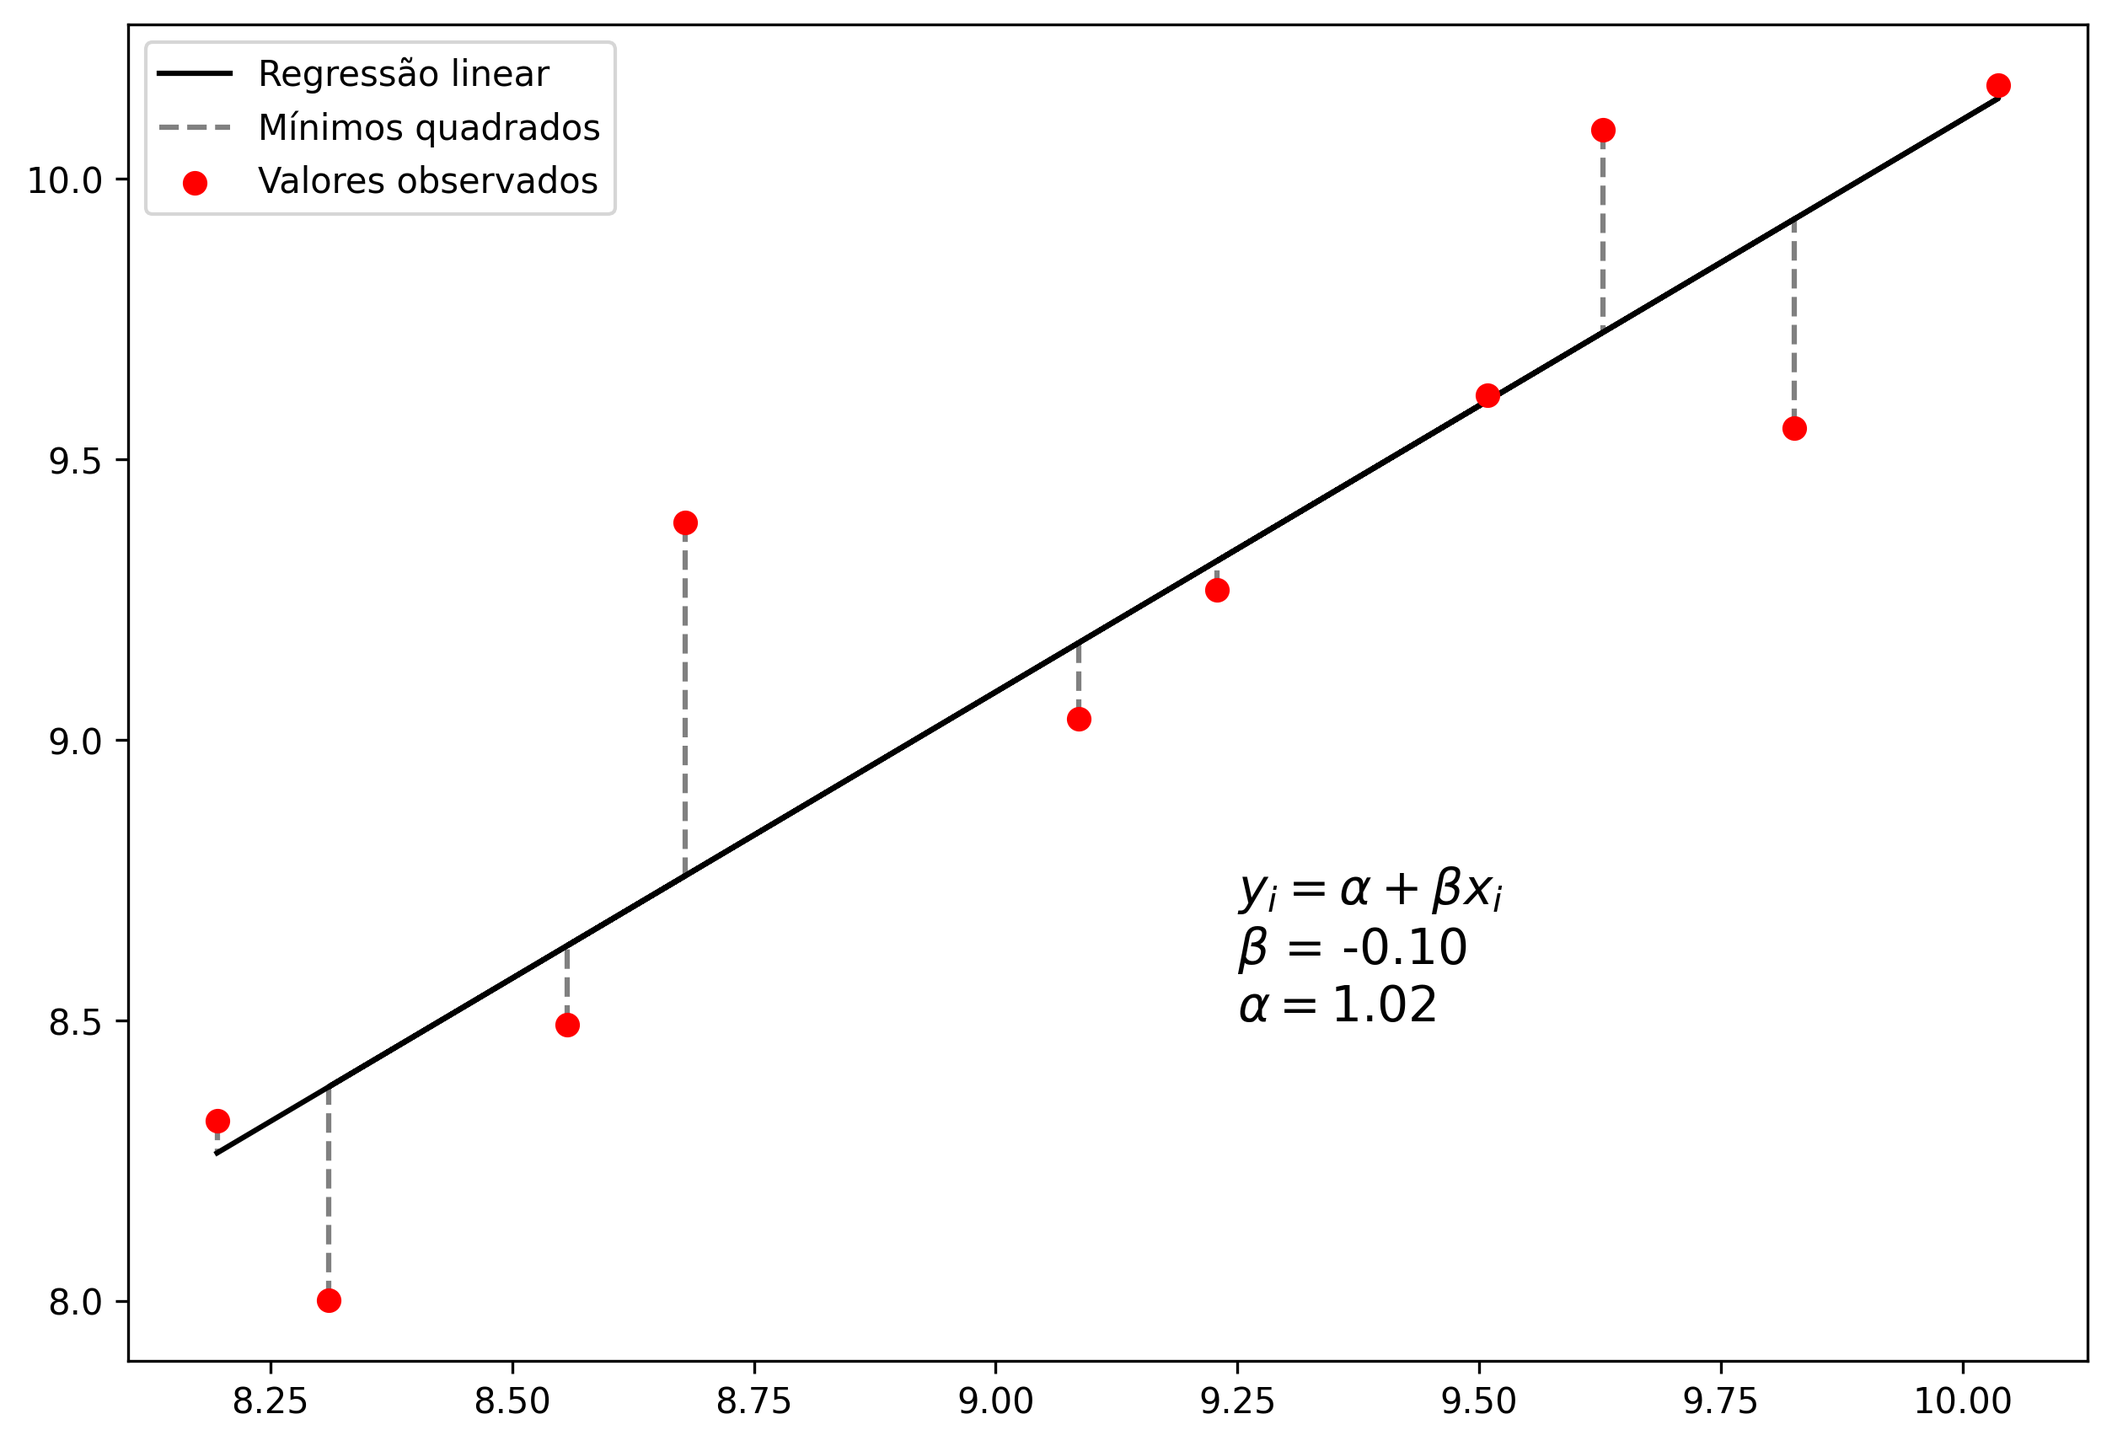
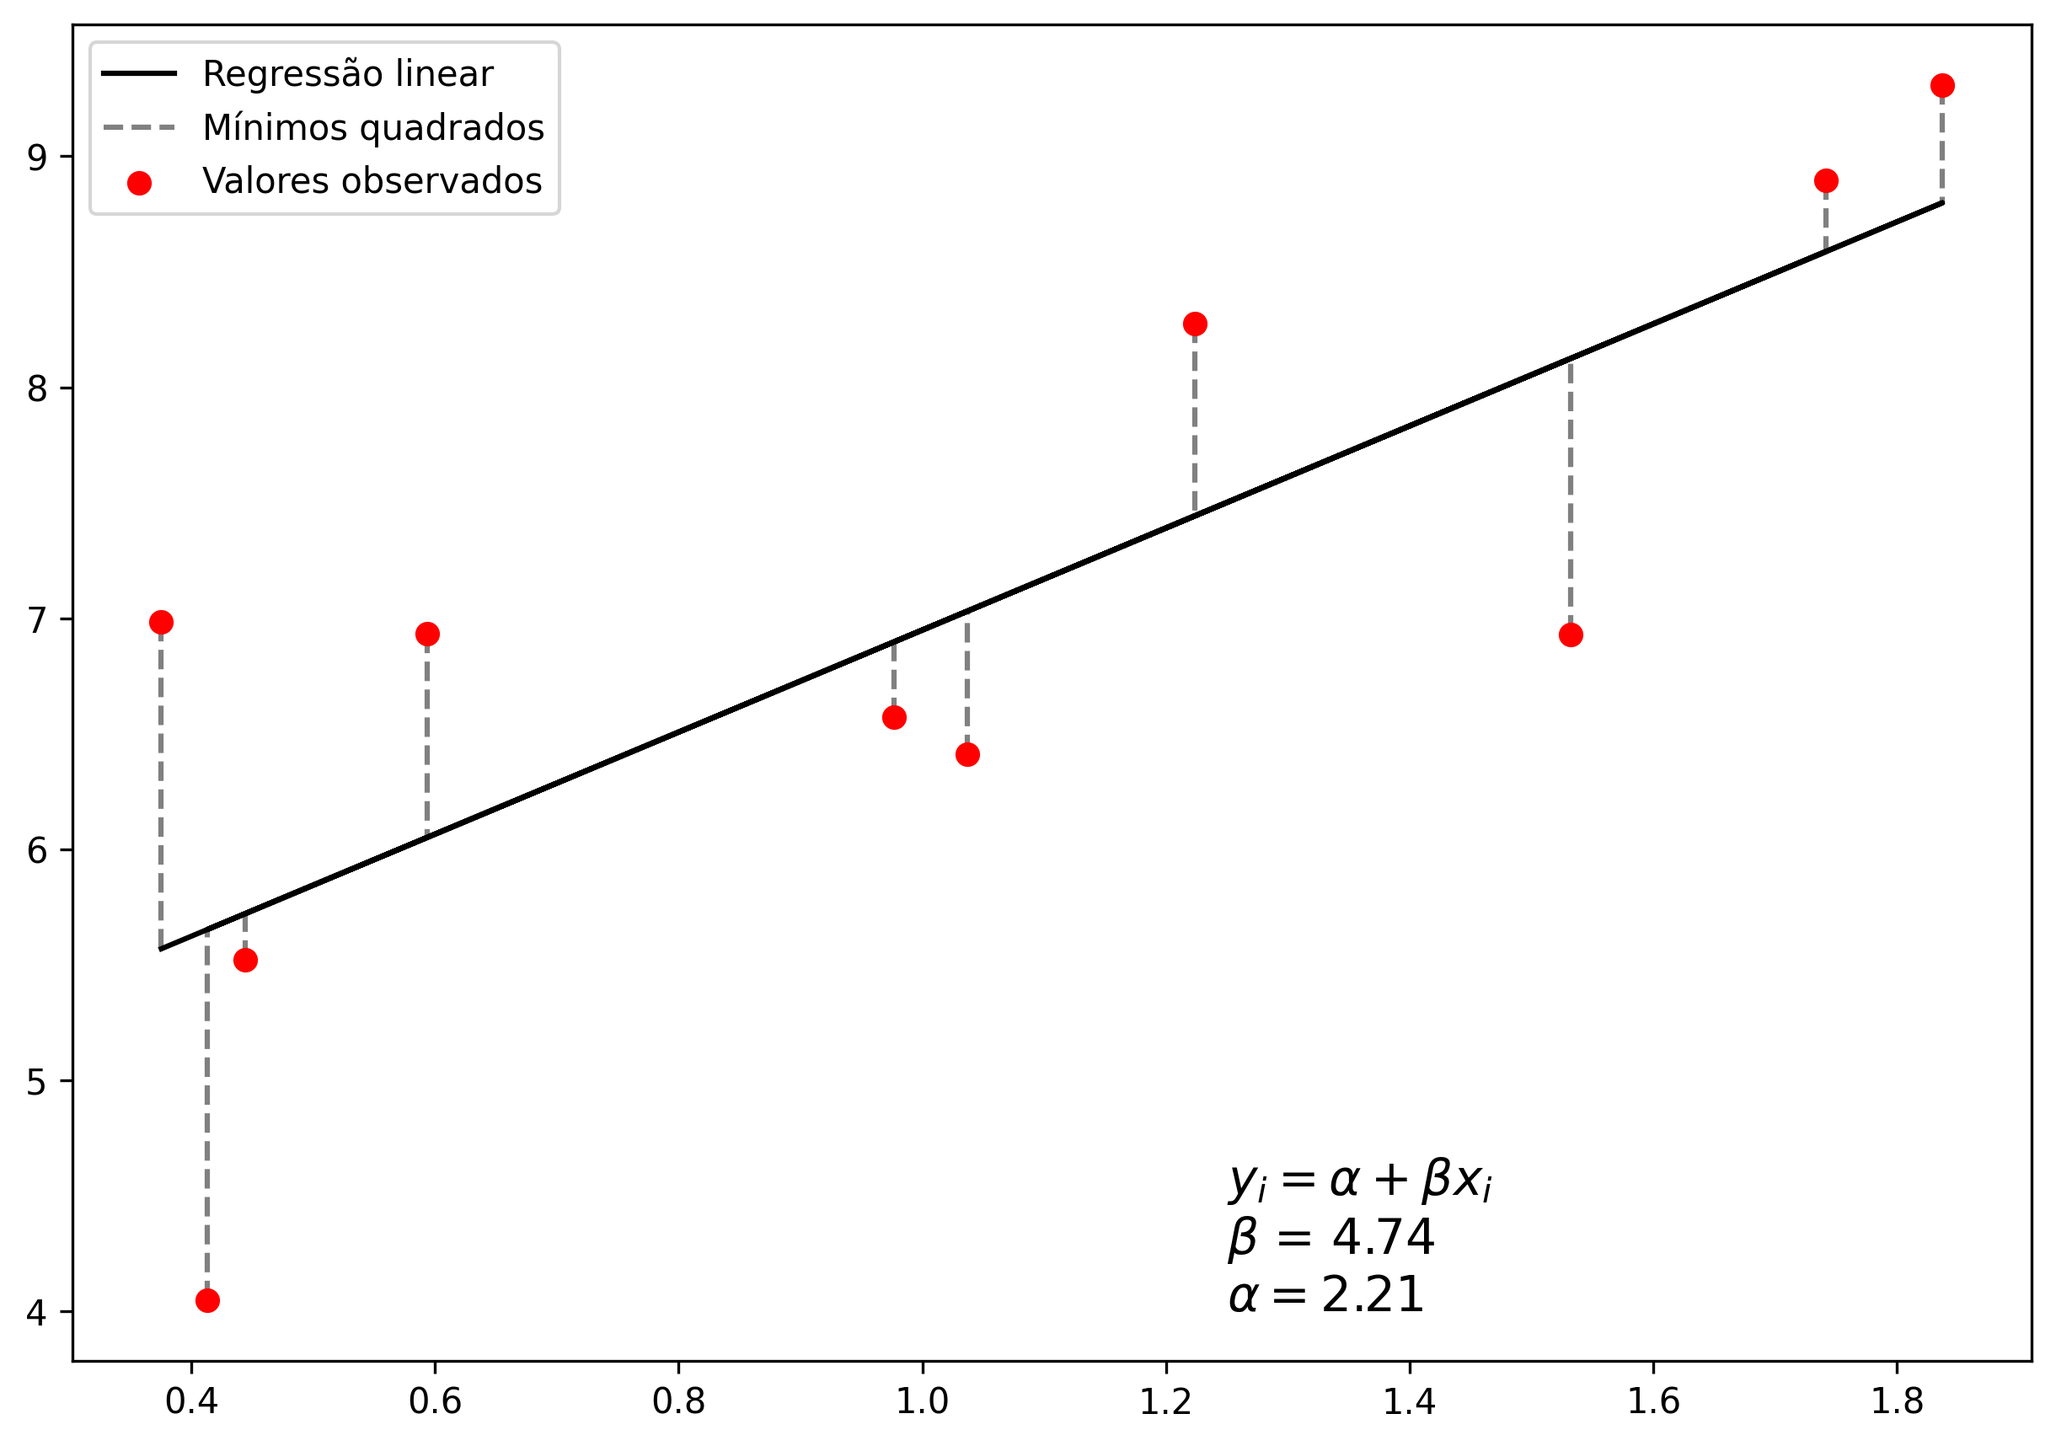
Finish OLS and create GD

diff --git a/docs/regressão.html b/docs/regressão.html
@@ -74,7 +74,7 @@
 <ul>
 <li class="chapter" data-level="3.1" data-path="regressão.html"><a href="regressão.html#regressão-linear"><i class="fa fa-check"></i><b>3.1</b> Regressão Linear</a>
 <ul>
-<li class="chapter" data-level="3.1.1" data-path="regressão.html"><a href="regressão.html#cálculo-dos-coeficientes"><i class="fa fa-check"></i><b>3.1.1</b> Cálculo dos coeficientes</a></li>
+<li class="chapter" data-level="3.1.1" data-path="regressão.html"><a href="regressão.html#coeficientes-da-regressão-linear"><i class="fa fa-check"></i><b>3.1.1</b> Coeficientes da regressão linear</a></li>
 </ul></li>
 </ul></li>
 <li class="chapter" data-level="4" data-path="agrupamento.html"><a href="agrupamento.html"><i class="fa fa-check"></i><b>4</b> Agrupamento</a></li>
@@ -157,92 +157,124 @@ relação entre duas variáveis através de uma função, que pode ser definida 
     y_{i} = \alpha+\beta x_{i}
 \tag{3.1}
 \end{equation}\]</span></p>
-<p>Onde <span class="math inline">\(y_{i}\)</span> é a variável dependente, também denominada de variável alvo,
-<span class="math inline">\(\alpha\)</span> e <span class="math inline">\(beta x_{i}\)</span> são coeficientes calculados pela regressão, que
-representam o intercepto no eixo <span class="math inline">\(y\)</span> e inclinação da reta, respectivamente.</p>
+<p>Onde <span class="math inline">\(y_{i}\)</span> é a variável alvo, <span class="math inline">\(\alpha\)</span> e <span class="math inline">\(beta x_{i}\)</span> são coeficientes
+calculados pela regressão, que representam o intercepto no eixo <span class="math inline">\(y\)</span> e inclinação
+da reta, respectivamente.</p>
 <p>A RLM é semelhante semelhante à RLS, porém possui multiplas variáveis
 preditoras, e pode ser definida por:</p>
 <p><span class="math display" id="eq:rlm-function">\[\begin{equation} 
     y_{i} = \alpha+\beta x_{i1}+\beta x_{i2}+...+\beta x_{in}
 \tag{3.2}
 \end{equation}\]</span></p>
-<p>Onde <span class="math inline">\(y_{i}\)</span> é a variável dependente, <span class="math inline">\(\alpha\)</span> continua sendo o coeficiente de
+<p>Onde <span class="math inline">\(y_{i}\)</span> é a variável alvo, <span class="math inline">\(\alpha\)</span> continua sendo o coeficiente de
 intercepto e <span class="math inline">\(\beta x_{ip}\)</span> o é coeficiente angular da <span class="math inline">\(p\)</span>-ésima variável. Ambos
 os métodos podem ainda serem somados a um termo <span class="math inline">\(\epsilon\)</span> de erro.</p>
-<div id="cálculo-dos-coeficientes" class="section level3" number="3.1.1">
-<h3><span class="header-section-number">3.1.1</span> Cálculo dos coeficientes</h3>
-<p>Existem diversas abordagens para se calcular os coeficientes de intercepto de
-inclinação da reta, as técnicas baseadas em mínimos quadrados oridinários e
-gradiente descendente são as mais comuns.</p>
+<div id="coeficientes-da-regressão-linear" class="section level3" number="3.1.1">
+<h3><span class="header-section-number">3.1.1</span> Coeficientes da regressão linear</h3>
+<p>Existem diversas abordagens para se calcular os coeficientes <span class="math inline">\(\alpha\)</span> e <span class="math inline">\(\beta\)</span>
+da equação da regressão linear, as técnicas baseadas em mínimos quadrados
+oridinários e gradiente descendente são as mais comuns. A seguir serão
+apresentados os funcionamentos dessas abordagens.</p>
 <div id="métodos-dos-quadrados-ordinários" class="section level4" number="3.1.1.1">
 <h4><span class="header-section-number">3.1.1.1</span> Métodos dos quadrados ordinários</h4>
 <p>O Método dos quadrados ordinários (MQO) ou método dos mínimos quadrados (MMQ),
 busca encontrar o melhor valor para os coeficientes citados anteriormente, de
 tal forma que a diferença absoluta entre o valor real e o predito pela função
 seja a menor possível entre todos os pontos. A Figura <a href="regressão.html#fig:ols">3.3</a> mostra um
-exmplo de regressão linar utilizando o MQO para um conjunto de pontos com força
-de correlação de 0,9.</p>
+exmplo de regressão linar utilizando o MQO para o conjunto pontos descritos na
+tabela a seguir:</p>
+<table>
+<thead>
+<tr class="header">
+<th>Variável independente</th>
+<th>Variável dependente</th>
+</tr>
+</thead>
+<tbody>
+<tr class="odd">
+<td>0.75</td>
+<td>5.78</td>
+</tr>
+<tr class="even">
+<td>1.90</td>
+<td>10.25</td>
+</tr>
+<tr class="odd">
+<td>1.46</td>
+<td>7.93</td>
+</tr>
+<tr class="even">
+<td>1.20</td>
+<td>7.13</td>
+</tr>
+<tr class="odd">
+<td>0.31</td>
+<td>5.18</td>
+</tr>
+<tr class="even">
+<td>0.31</td>
+<td>3.02</td>
+</tr>
+<tr class="odd">
+<td>0.12</td>
+<td>2.62</td>
+</tr>
+<tr class="even">
+<td>1.73</td>
+<td>8.63</td>
+</tr>
+<tr class="odd">
+<td>1.20</td>
+<td>6.59</td>
+</tr>
+<tr class="even">
+<td>1.42</td>
+<td>8.56</td>
+</tr>
+</tbody>
+</table>
 <div class="figure" style="text-align: center"><span id="fig:ols"></span>
 <img src="assets/ols.png" alt="Exemplo do método dos quadrados ordinários."  />
 <p class="caption">
 Figure 3.3: Exemplo do método dos quadrados ordinários.
 </p>
 </div>
-<p>Considerando a Imagem <a href="regressão.html#fig:ols">3.3</a>, uma amostra de 10 pontos como exemplo, que
-será chamada de <span class="math inline">\(A\)</span>, ou seja, <span class="math inline">\(A = \{(x_{i}, y_{i}):i=1, ..., 10\}\)</span>. O MQO tem
-como objetivo estibular os coeficientes da função, de tal forma que a soma
-quadrática dos erros absolutos <span class="math inline">\(E^{2}\)</span> seja a menor possível:</p>
-<p><span class="math display" id="eq:error-ols">\[\begin{equation} 
-    E^{2} = \sum_{i=1}^{n=10}(y_{i}-(\alpha+\beta x_{i}))^{2}
-\tag{3.3}
-\end{equation}\]</span></p>
-<p>Expandindo a equação fica:</p>
-<p><span class="math display" id="eq:expanded-error-ols">\[\begin{equation} 
-    E = ((y_{1}-(\alpha+\beta x_{1}))^{2}+(y_{2}-(\alpha+\beta x_{2}))^{2}+ ... + (y_{10}-(\alpha+\beta x_{10}))^{2})^{2}
-\tag{3.4}
-\end{equation}\]</span></p>
-<p>Após isso, é teremos uma função com duas variáveis, e para encontrar seus
-valores e igualar a zero, a fim de se obter os pontos críticos, é necessário
-calcular as derivadas parciais em relação a <span class="math inline">\(\alpha\)</span> (Equação
-<a href="regressão.html#eq:partial-alpha">(3.5)</a> e <span class="math inline">\(\beta\)</span> (Equação <a href="regressão.html#eq:partial-beta">(3.6)</a>.</p>
-<!-- = 2(y_{1}-\alpha+\beta x_{1})\times1+2(y_{2}-\alpha+\beta x_{2})\times1+ ... + 2(y_{10}-\alpha+\beta x_{10})\times1 = 0 -->
-<p><span class="math display" id="eq:partial-alpha">\[\begin{equation} 
-    \frac{\partial E^{2}}{\partial \alpha} = (y_{1}-(\alpha+\beta x_{1}))^{2}+(y_{2}-(\alpha+\beta x_{2}))^{2}+ ... + (y_{10}-(\alpha+\beta x_{10}))^{2} = 0
-\tag{3.5}
-\end{equation}\]</span></p>
-<p><span class="math display" id="eq:partial-beta">\[\begin{equation} 
-    \frac{\partial E^{2}}{\partial \beta} = (y_{1}-(\alpha+\beta x_{1}))^{2}+(y_{2}-(\alpha+\beta x_{2}))^{2}+ ... + (y_{10}-(\alpha+\beta x_{10}))^{2} = 0
-\tag{3.6}
-\end{equation}\]</span></p>
-<p>Após calcular as derivadas parcias, teremos duas equações, das quais podemos
-encontrar os valores das duas variáveis utilizando um sistema de equações
-lineares. Após encontrar as variáveis e realizar as devidas substituições,
-teremos a equação da reta, ou seja, a regressão linear.</p>
+<p>Para se chegar no resultado apresentado na Figura <a href="regressão.html#fig:ols">3.3</a>, os
+coeficientes da regressão linear foram ajustados, de tal tal forma que o erro
+quadrático médio entre entre a função e cada um dos pontos fossem a menor
+possível. A Figura <a href="regressão.html#fig:ols-steps">3.4</a> mostra o ajuste dos coeficientes da
+equação em relação a cada ponto.</p>
+<div class="figure" style="text-align: center"><span id="fig:ols-steps"></span>
+<img src="assets/ols-steps.png" alt="Ajuste da regressão linear por método dos quadrados ordinários."  />
+<p class="caption">
+Figure 3.4: Ajuste da regressão linear por método dos quadrados ordinários.
+</p>
+</div>
 </div>
 <div id="gradiente-descendente" class="section level4" number="3.1.1.2">
 <h4><span class="header-section-number">3.1.1.2</span> Gradiente descendente</h4>
 <p>O método do gradiente descendente (GD) é uma das técnicas mais utilizadas para
-otimização de modelos de ML. O GD é um método interativo que busca encontrar os
-coeficiente <span class="math inline">\(\alpha\)</span> e <span class="math inline">\(\beta\)</span> através da minimuzação de uma função de custo,
-normalmente o erro quadrático médio (MSE - sigla do inglês,
-<em>mean squared error</em>). O MSE pode ser definido pela Equação <a href="regressão.html#eq:mse">(3.7)</a>, onde
-<span class="math inline">\(e_{i}\)</span> é a diferença entre o valor real de <span class="math inline">\(y_{i}\)</span> e o valor previsto pela
-equação.</p>
-<p><span class="math display" id="eq:mse">\[\begin{equation} 
-    MSE = \frac{1}{n} \sum^{n}_{i=1}e_{i}^{2}
-\tag{3.7}
-\end{equation}\]</span></p>
-<p>O GD deve ajustar os coeficientes até que o MSE seja o menor possível e cada
-intereação. A atualização dos coeficiente é feita com base em uma taxa de
-aprendizado, normalmente definida em 0,0001. Uma taxa de aprendizado muito
-grande o GD pode cair em um mínimo local, já um valor muito baixo, o modelo pode
-demorar muito mais tempo para chegar em um mínimo local, necessitando de muito
-mais tempo e processamento, conforme ilustrado na Figura
-<a href="regressão.html#fig:learning-rate">3.4</a>.</p>
+otimização de modelos de ML. Este é um método interativo que busca encontrar os
+coeficiente <span class="math inline">\(\alpha\)</span> e <span class="math inline">\(\beta\)</span> através da minimização de uma função de custo,
+que normalmente é o erro quadrático médio (MSE - sigla do inglês,
+<em>mean squared error</em>).</p>
+<p>O GD funciona de forma iterativa e inicializa os coeficientes com um valor
+predefinido ou aleatório. Em cada iteração é obtido o somatório do erro entre
+todos os valores das variáveis dependentes e valores calculados pela função. Com
+base nesse erro e em uma taxa de aprendizagem do modelo predefinida, os valores
+dos coeficientes da função são atualizados para a próxima iteração. A taxa de
+aprendizagem deve ser definda com um valor equilibrado. A definição de um valor
+muito alto para a taxa de aprendizagem pode levar o modelo a cair em um mínimo
+local, ou seja, o modelo não consegue chegar em seu melhor ajuste. Já quando a
+taxa de aprendizagem é definida com um valor muito baixo, o modelo demora mais
+tempo para chegar no ajuste ideal, necessitando de muito mais tempo e
+processamento até que haja a convergência. A Figura <a href="regressão.html#fig:learning-rate">3.5</a>
+mostra o comportamento do GD com diferentes categorias de valores mencionadas
+para a taxa de aprendizagem.</p>
 <div class="figure" style="text-align: center"><span id="fig:learning-rate"></span>
 <img src="assets/learning-rate-gd.png" alt="Problemas na taxa de aprendizado do gradiente descendente."  />
 <p class="caption">
-Figure 3.4: Problemas na taxa de aprendizado do gradiente descendente.
+Figure 3.5: Problemas na taxa de aprendizado do gradiente descendente.
 </p>
 </div>
 

diff --git a/docs/agrupamento.html b/docs/agrupamento.html
@@ -74,7 +74,7 @@
 <ul>
 <li class="chapter" data-level="3.1" data-path="regressão.html"><a href="regressão.html#regressão-linear"><i class="fa fa-check"></i><b>3.1</b> Regressão Linear</a>
 <ul>
-<li class="chapter" data-level="3.1.1" data-path="regressão.html"><a href="regressão.html#cálculo-dos-coeficientes"><i class="fa fa-check"></i><b>3.1.1</b> Cálculo dos coeficientes</a></li>
+<li class="chapter" data-level="3.1.1" data-path="regressão.html"><a href="regressão.html#coeficientes-da-regressão-linear"><i class="fa fa-check"></i><b>3.1.1</b> Coeficientes da regressão linear</a></li>
 </ul></li>
 </ul></li>
 <li class="chapter" data-level="4" data-path="agrupamento.html"><a href="agrupamento.html"><i class="fa fa-check"></i><b>4</b> Agrupamento</a></li>

diff --git a/docs/classificação.html b/docs/classificação.html
@@ -74,7 +74,7 @@
 <ul>
 <li class="chapter" data-level="3.1" data-path="regressão.html"><a href="regressão.html#regressão-linear"><i class="fa fa-check"></i><b>3.1</b> Regressão Linear</a>
 <ul>
-<li class="chapter" data-level="3.1.1" data-path="regressão.html"><a href="regressão.html#cálculo-dos-coeficientes"><i class="fa fa-check"></i><b>3.1.1</b> Cálculo dos coeficientes</a></li>
+<li class="chapter" data-level="3.1.1" data-path="regressão.html"><a href="regressão.html#coeficientes-da-regressão-linear"><i class="fa fa-check"></i><b>3.1.1</b> Coeficientes da regressão linear</a></li>
 </ul></li>
 </ul></li>
 <li class="chapter" data-level="4" data-path="agrupamento.html"><a href="agrupamento.html"><i class="fa fa-check"></i><b>4</b> Agrupamento</a></li>

diff --git a/docs/considerações-finais.html b/docs/considerações-finais.html
@@ -74,7 +74,7 @@
 <ul>
 <li class="chapter" data-level="3.1" data-path="regressão.html"><a href="regressão.html#regressão-linear"><i class="fa fa-check"></i><b>3.1</b> Regressão Linear</a>
 <ul>
-<li class="chapter" data-level="3.1.1" data-path="regressão.html"><a href="regressão.html#cálculo-dos-coeficientes"><i class="fa fa-check"></i><b>3.1.1</b> Cálculo dos coeficientes</a></li>
+<li class="chapter" data-level="3.1.1" data-path="regressão.html"><a href="regressão.html#coeficientes-da-regressão-linear"><i class="fa fa-check"></i><b>3.1.1</b> Coeficientes da regressão linear</a></li>
 </ul></li>
 </ul></li>
 <li class="chapter" data-level="4" data-path="agrupamento.html"><a href="agrupamento.html"><i class="fa fa-check"></i><b>4</b> Agrupamento</a></li>

diff --git a/docs/introdução.html b/docs/introdução.html
@@ -74,7 +74,7 @@
 <ul>
 <li class="chapter" data-level="3.1" data-path="regressão.html"><a href="regressão.html#regressão-linear"><i class="fa fa-check"></i><b>3.1</b> Regressão Linear</a>
 <ul>
-<li class="chapter" data-level="3.1.1" data-path="regressão.html"><a href="regressão.html#cálculo-dos-coeficientes"><i class="fa fa-check"></i><b>3.1.1</b> Cálculo dos coeficientes</a></li>
+<li class="chapter" data-level="3.1.1" data-path="regressão.html"><a href="regressão.html#coeficientes-da-regressão-linear"><i class="fa fa-check"></i><b>3.1.1</b> Coeficientes da regressão linear</a></li>
 </ul></li>
 </ul></li>
 <li class="chapter" data-level="4" data-path="agrupamento.html"><a href="agrupamento.html"><i class="fa fa-check"></i><b>4</b> Agrupamento</a></li>

diff --git a/docs/referências-bibliográficas.html b/docs/referências-bibliográficas.html
@@ -74,7 +74,7 @@
 <ul>
 <li class="chapter" data-level="3.1" data-path="regressão.html"><a href="regressão.html#regressão-linear"><i class="fa fa-check"></i><b>3.1</b> Regressão Linear</a>
 <ul>
-<li class="chapter" data-level="3.1.1" data-path="regressão.html"><a href="regressão.html#cálculo-dos-coeficientes"><i class="fa fa-check"></i><b>3.1.1</b> Cálculo dos coeficientes</a></li>
+<li class="chapter" data-level="3.1.1" data-path="regressão.html"><a href="regressão.html#coeficientes-da-regressão-linear"><i class="fa fa-check"></i><b>3.1.1</b> Coeficientes da regressão linear</a></li>
 </ul></li>
 </ul></li>
 <li class="chapter" data-level="4" data-path="agrupamento.html"><a href="agrupamento.html"><i class="fa fa-check"></i><b>4</b> Agrupamento</a></li>
